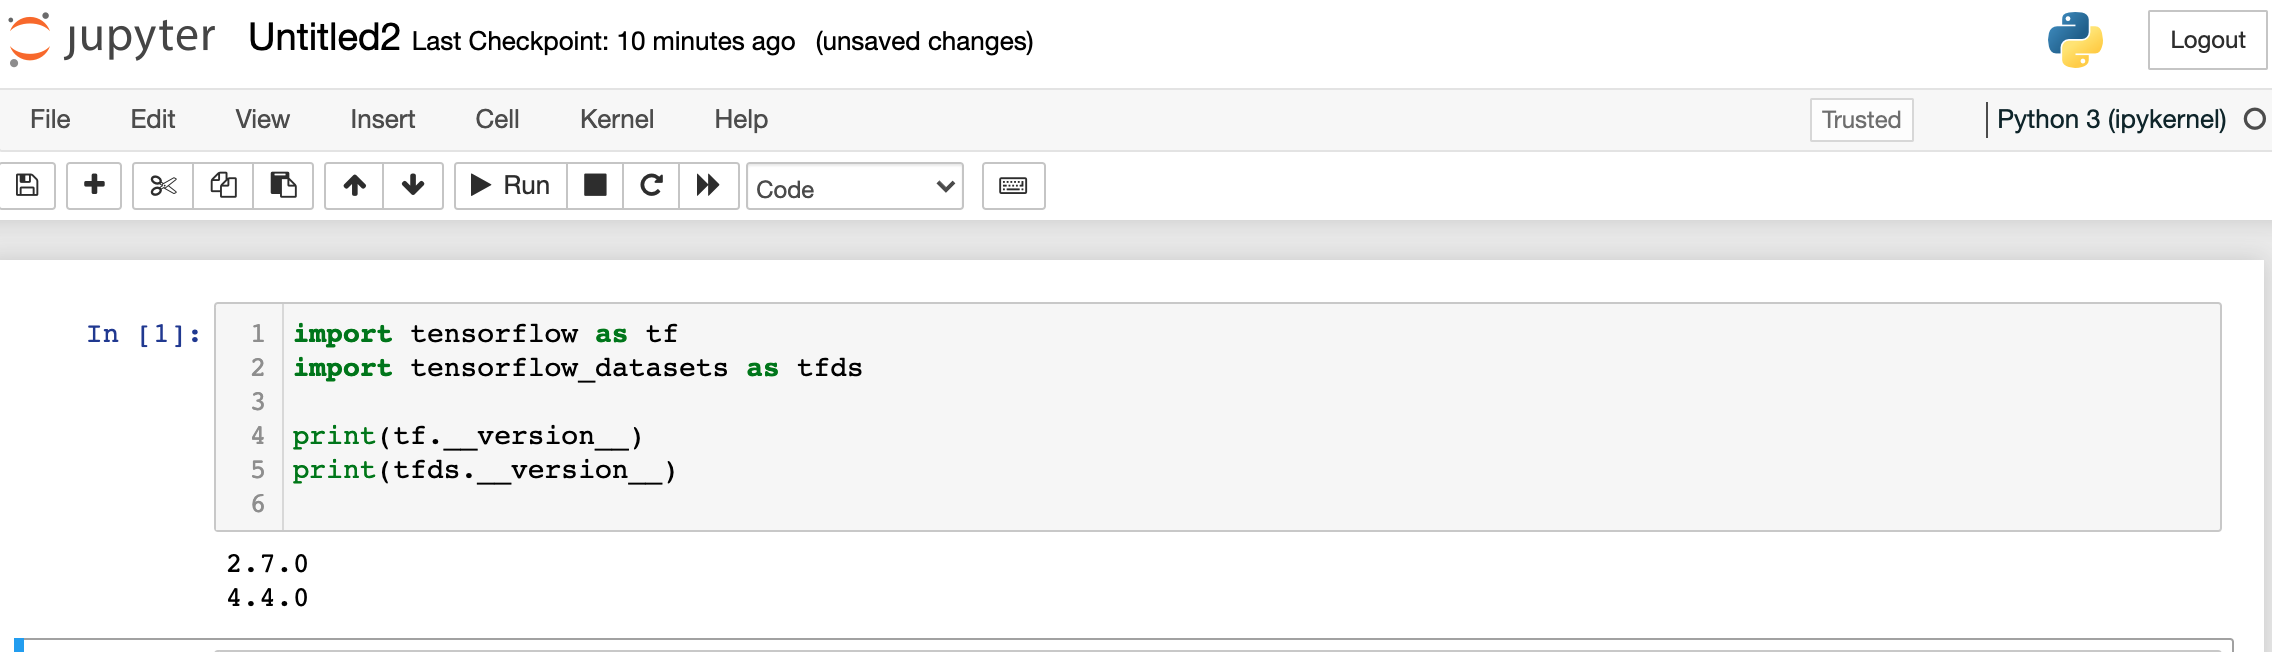
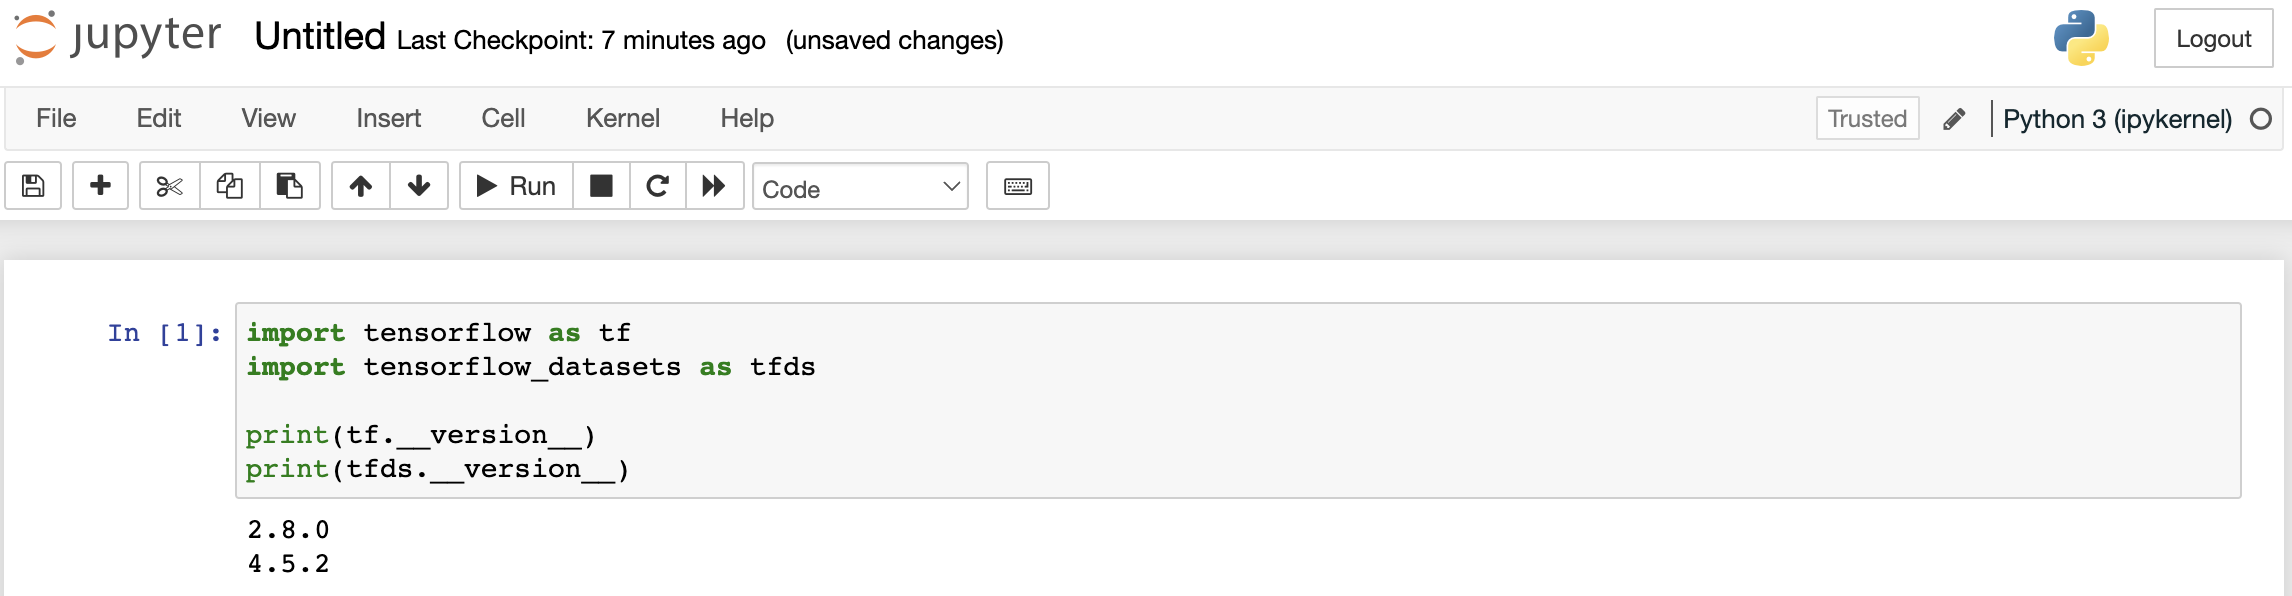
update

diff --git a/Guidelines/install-tensorflow/README.md b/Guidelines/install-tensorflow/README.md
@@ -18,8 +18,8 @@ print(tfds.__version__)
 
 2. Update or install `tensorflow` and `tensorflow-datasets` via the commands below as needed:
 ```
-! pip install tensorflow_datasets==4.4.0
-! pip install tensorflow==2.7.0
+pip install tensorflow_datasets==4.5.2
+pip install tensorflow==2.8.0
 ```
 
 3. Restart your Kernel via (Kernel > Restart) and check if the installation succeeded (via step 1)
